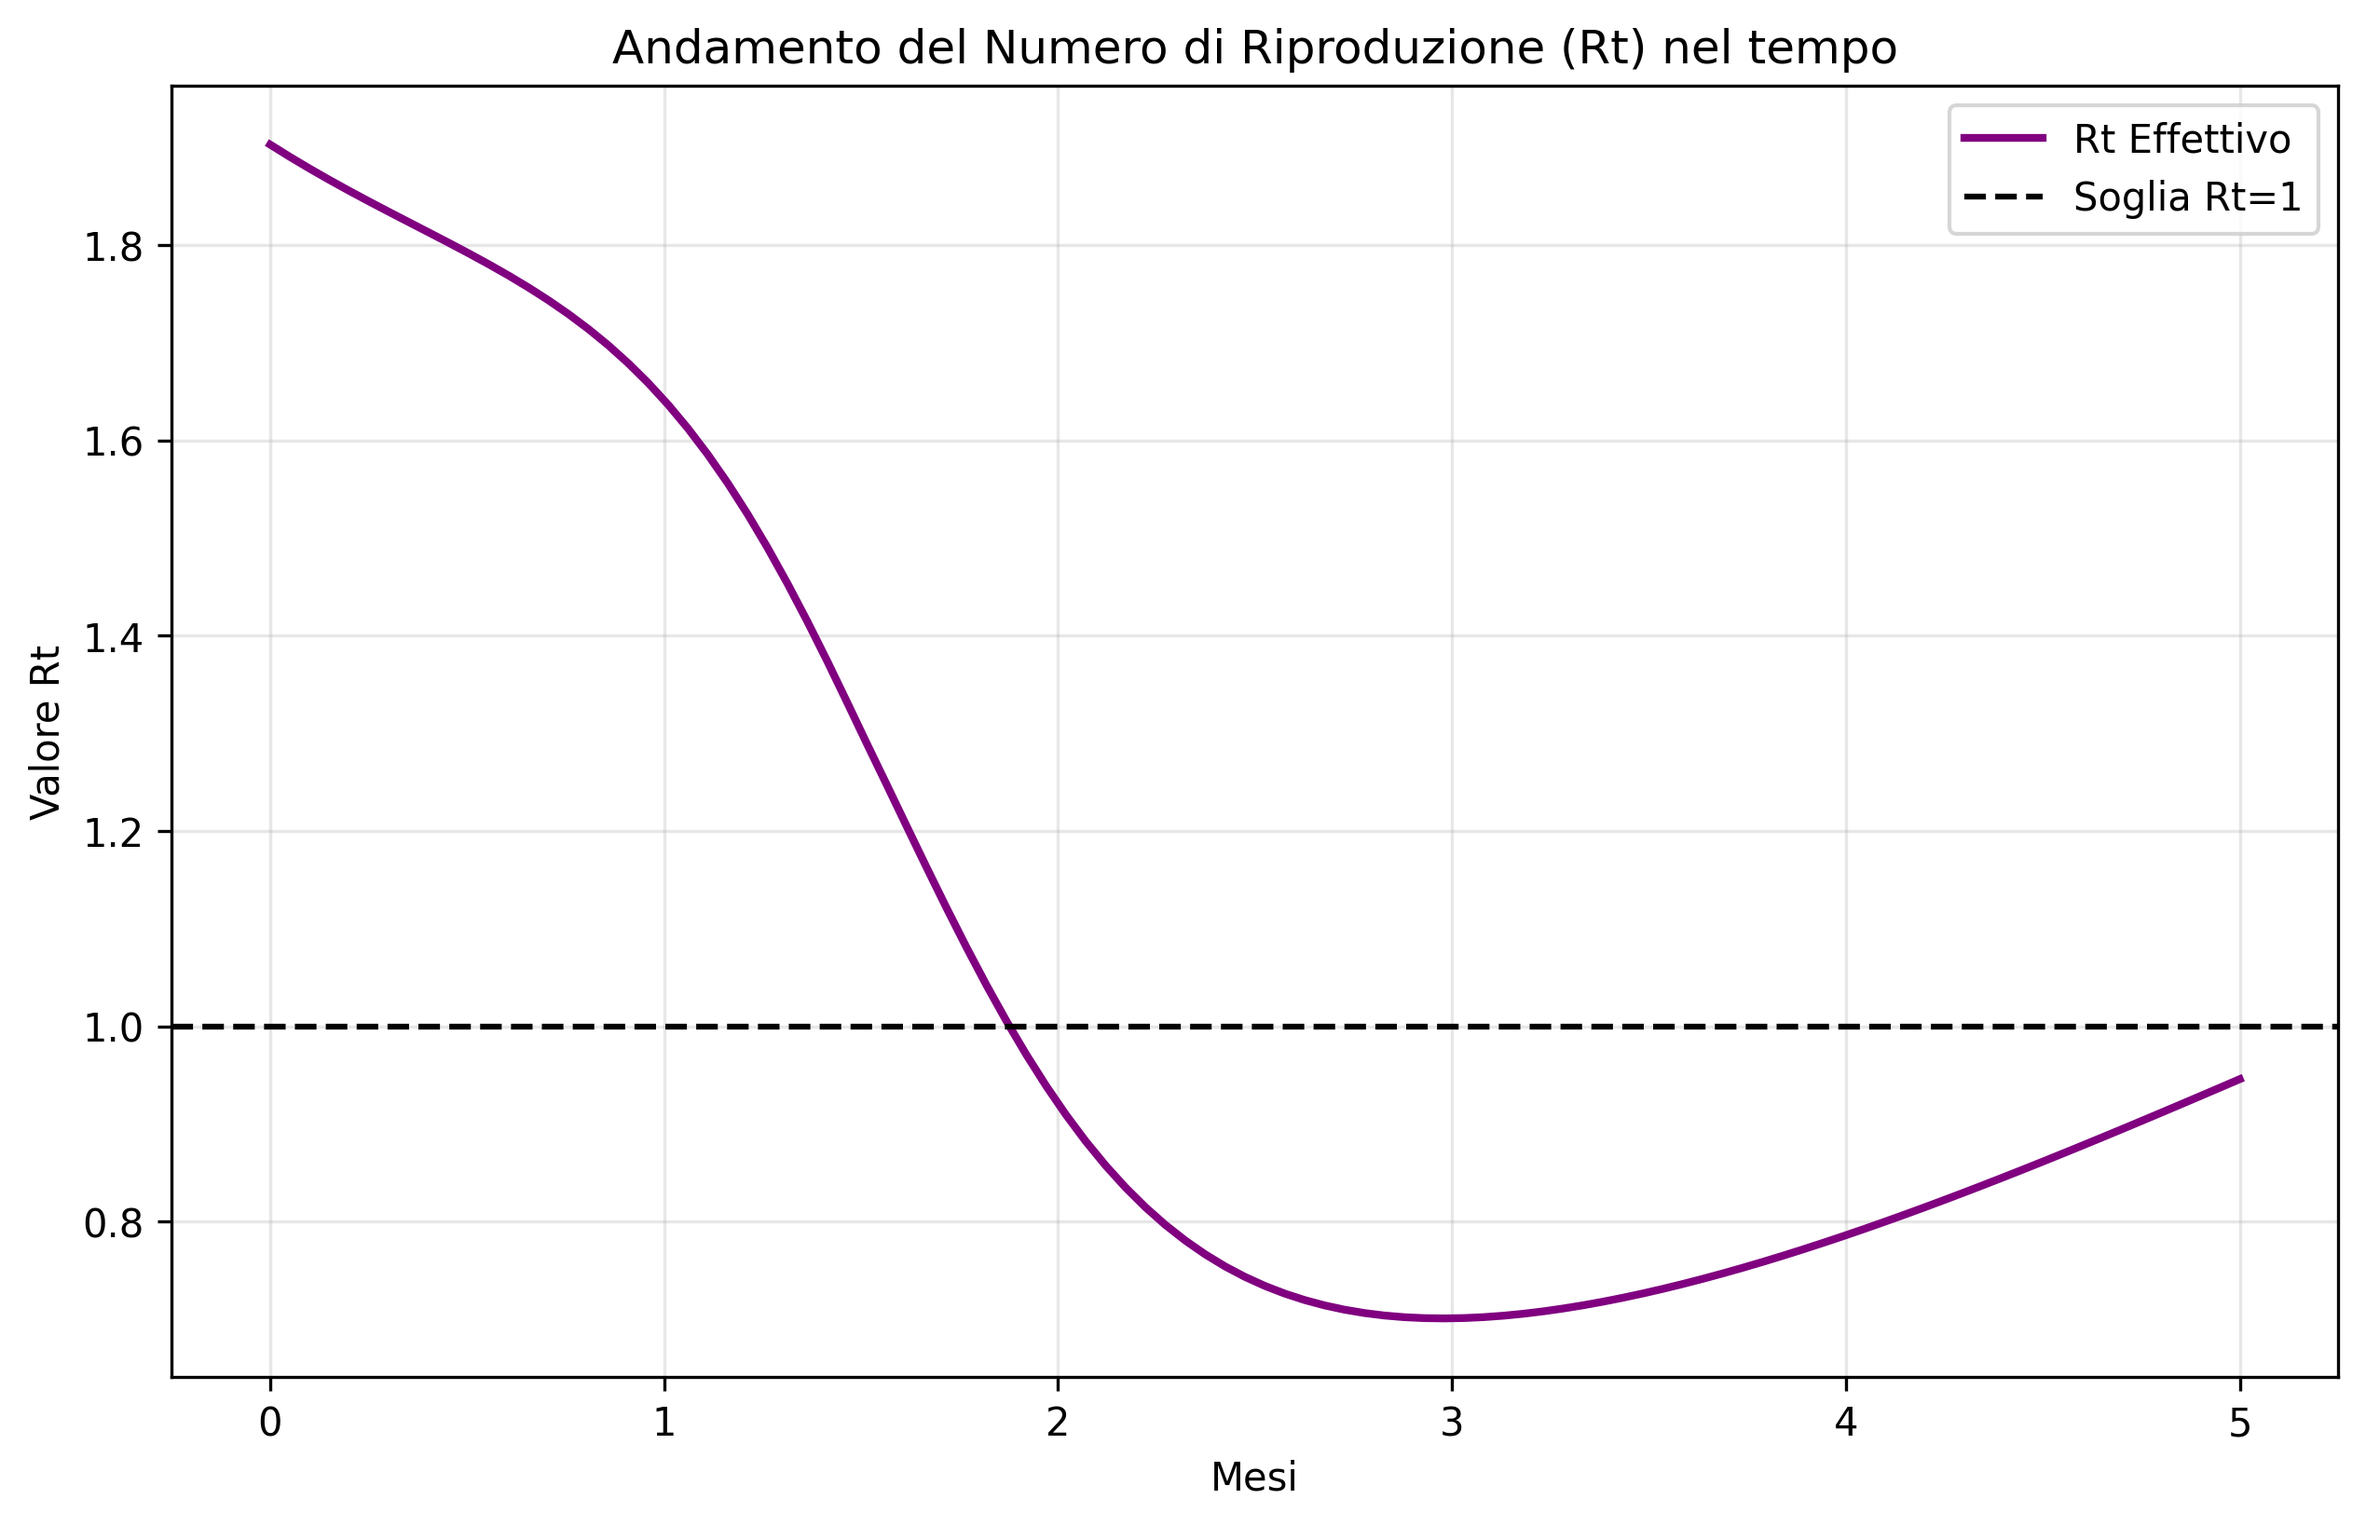
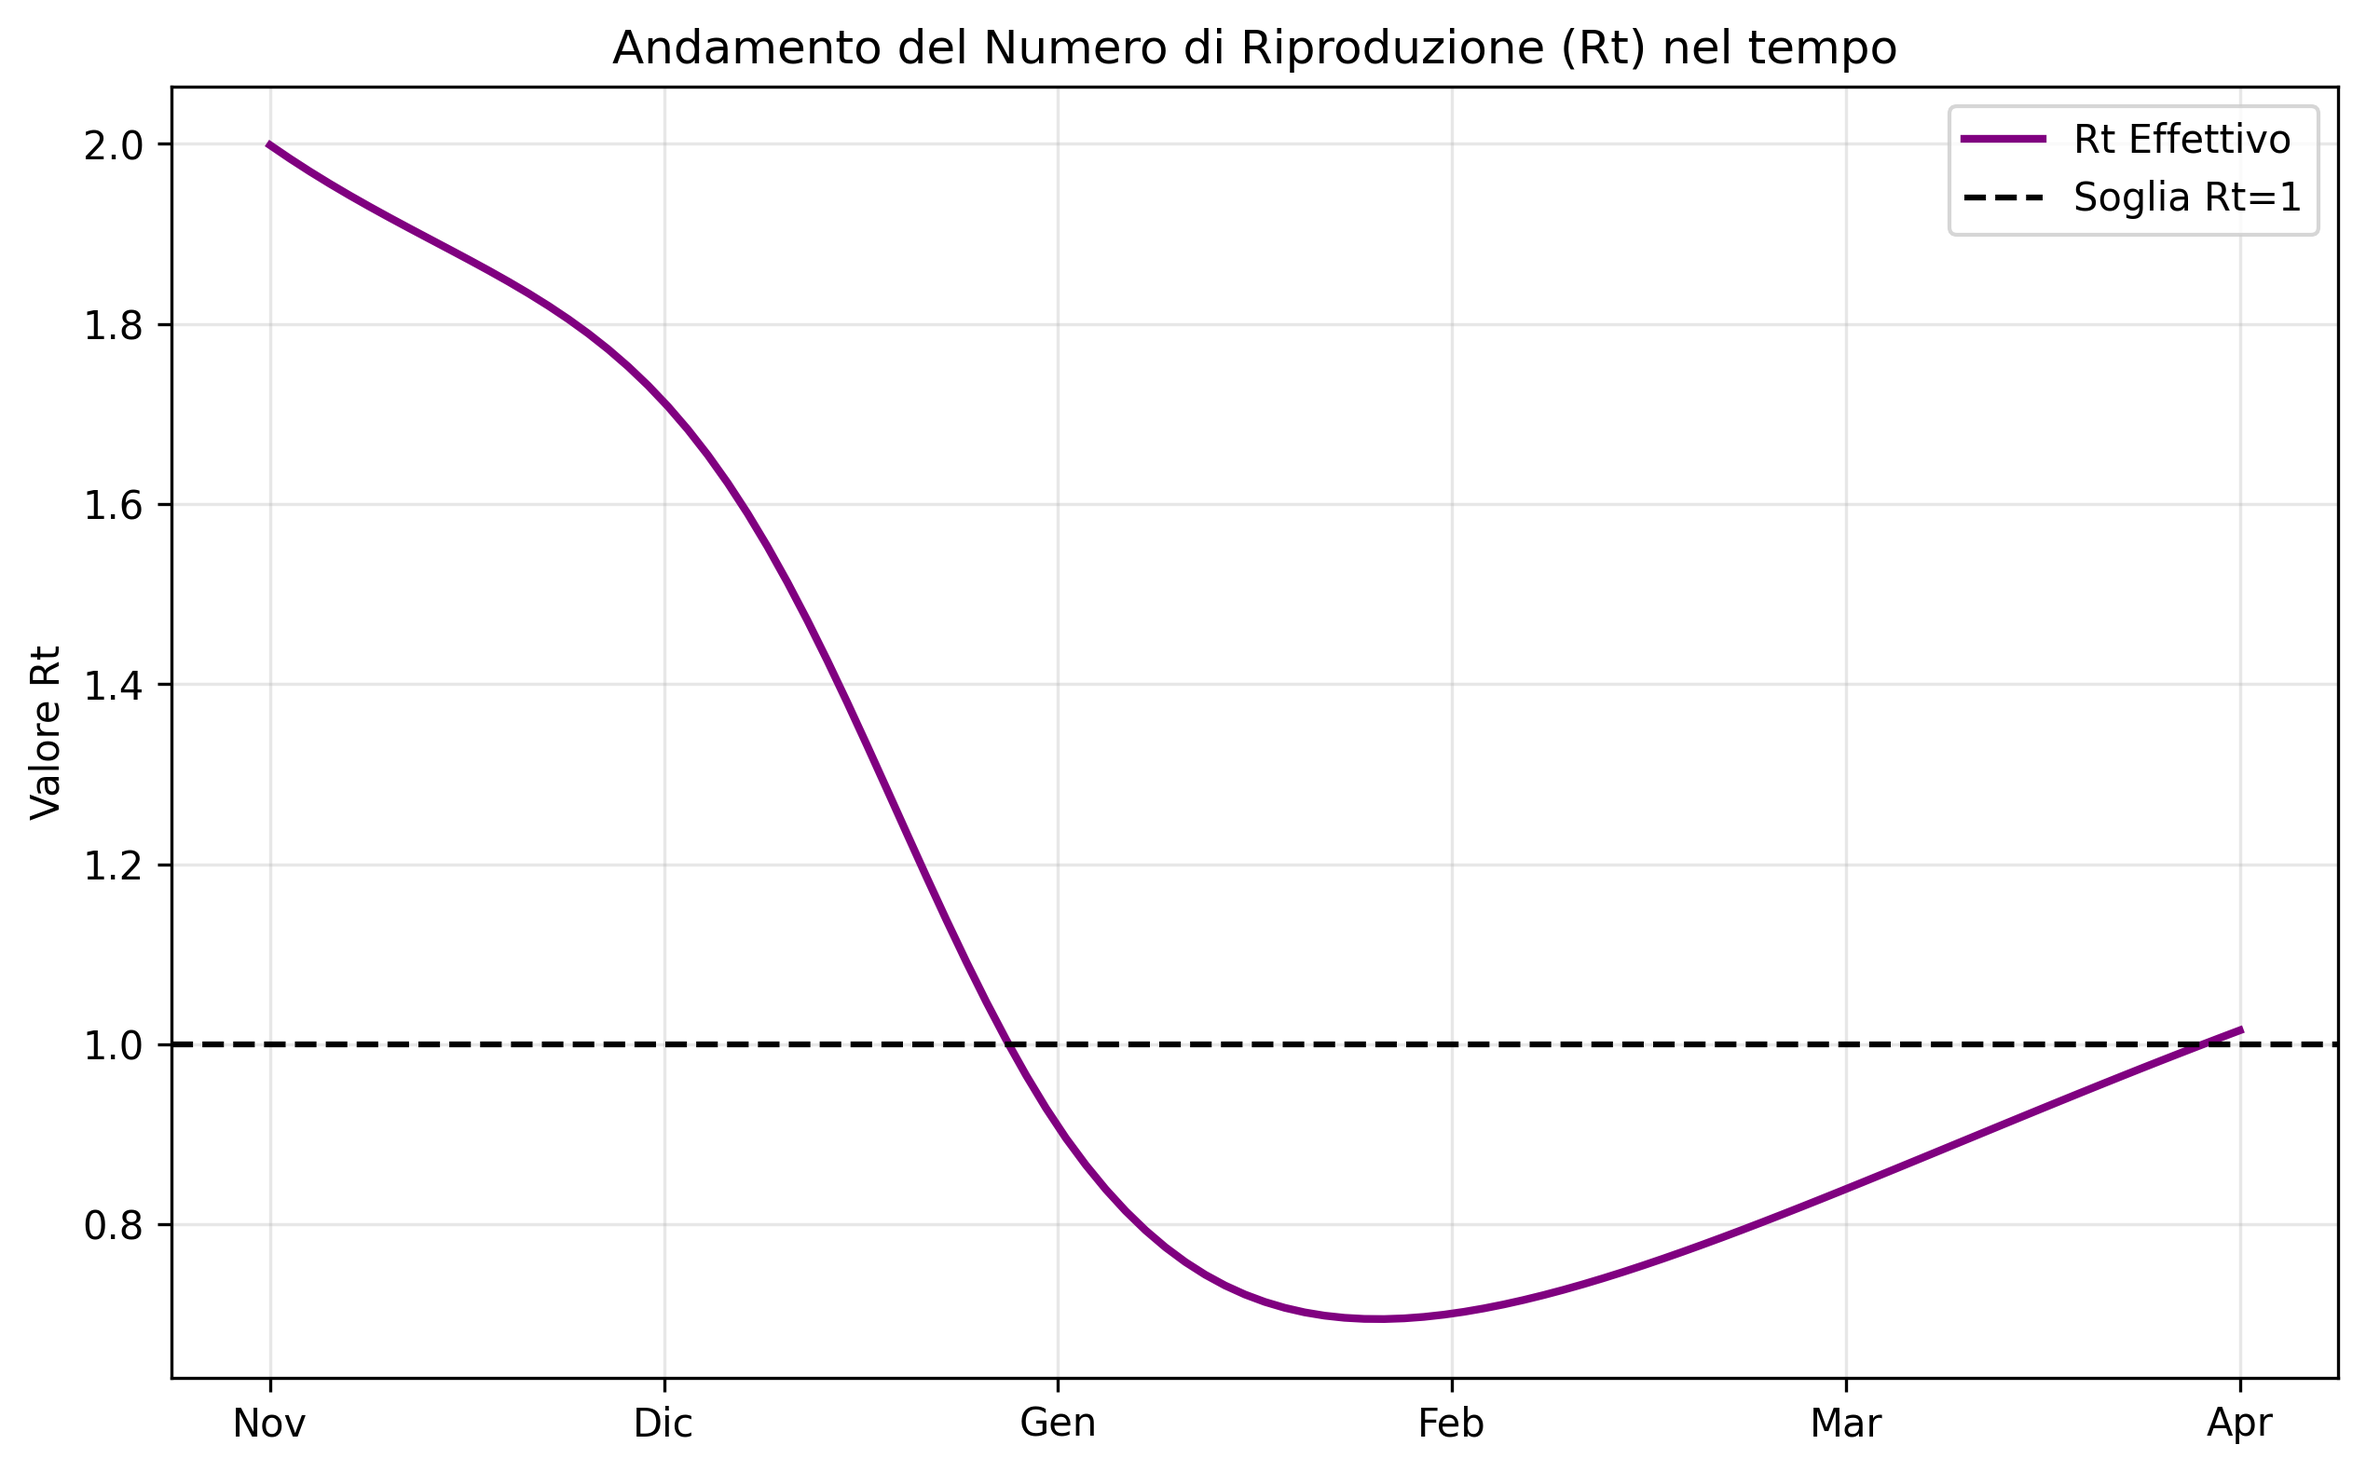
aggiunta parte covid
aggiunta parte vaccinazione post covid e grafico SIR, sistemata logica vaccinazioni

diff --git a/SIRnS.py b/SIRnS.py
@@ -9,10 +9,16 @@ df_vax = pd.read_csv('vaccini.csv', sep=';')
 
 # Parametri globali
 n_stages = 3
-gamma = 4.3
+gamma = 4
 r = 0.5
-beta = 9.5
+beta = 8
 I0 = 0.001
+
+s_min = 0.01
+s_max = 0.7
+
+t_vax = 2 #durata della campagna attiva vaccinale
+pop_ita = 60e6
 
 
 def clean_flu_data(df_flu_clean):
@@ -43,7 +49,7 @@ def get_flu_season(df, year_start):
     season = season.sort_values(['Year', 'Month'])
 
     # numero mese nella stagione
-    season['Num'] = np.arange(len(season)) + 1
+    season['Num'] = np.arange(len(season))
     return season
 
 
@@ -52,37 +58,50 @@ def sirnv_model(y, t, beta, gamma, r, vax_rate, n):
     I = y[1]
     R = y[2:]
 
-    # suscettibilità residua per gli stadi R
-    s = [0.1 * (i + 1) for i in range(n)]
+    #creo n valori distribuiti tra 0.01 e 0.7, in base al numero di stage
+    s = np.linspace(s_min, s_max, n)
 
-    if t <= 1.5:
+    infezioniR = 0
+    #somma degli infetti che provengono da qualsiasi Ri
+    for i in range(n):
+        nuovi_infetti = s[i] * beta * R[i] * I
+        infezioniR = infezioniR + nuovi_infetti
+
+    if t <= t_vax:
         v = vax_rate * np.exp(-t)
     else:
         v = 0
 
     dsdt = -beta * S * I - v * S + r * R[n - 1]
 
-    # infezioni da S e da tutti gli stati R
-    infections_from_R = sum(s[i] * beta * R[i] * I for i in range(n))
-    didt = beta * S * I + infections_from_R - gamma * I
+    didt = beta * S * I + infezioniR - gamma * I
 
-    # Equazioni R
-    drdt = [0] * n
+    drdt = np.zeros(n)
     # R1 riceve i guariti e i vaccinati
-    drdt[0] = gamma * I + v * S - s[0] * beta * R[0] * I - r * R[0]
+    drdt[0] = gamma * I + v * S - (s[0] * beta * R[0] * I) - (r * R[0])
     # Passaggio tra stadi R_i -> R_{i+1} (invecchiamento immunità)
-    for i in range(1, n - 1):
-        drdt[i] = r * R[i - 1] - s[i] * beta * R[i] * I - r * R[i]
-    # Ultimo stadio Rn
-    drdt[n - 1] = r * R[n - 2] - s[n - 1] * beta * R[n - 1] * I - r * R[n - 1]
+    for i in range(1, n):
+        drdt[i] = r * R[i - 1] - (s[i] * beta * R[i] * I) - r * R[i]
 
-    return [dsdt, didt] + drdt
+    ris = [dsdt, didt] + drdt.tolist()
+
+    return ris
 
 
-def run_simulation(beta, vax_rate, n_stages, t_grid, gamma, r, I0):
-    S0 = 1 - I0 - vax_rate
-    R0 = [vax_rate] + [0.0] * (n_stages - 1)
+def run_simulation(beta, vax_rate_target, n_stages, t_grid, gamma, r, I0):
+    vax_october = 0.15
+    initial_immune = vax_rate_target * vax_october
+
+    vax_rate_rim = vax_rate_target - initial_immune
+
+    R0 = [0.0] * n_stages
+    S0 = 1 - I0 - sum(R0)
+    R0[0] = initial_immune
     y0 = [S0, I0] + R0
+
+    # Affinché l'integrale della vaccinazione nel tempo sia pari al tasso target
+    integral_factor = 1 - np.exp(-t_vax)
+    vax_rate = vax_rate_rim / integral_factor
 
     sol = odeint(sirnv_model, y0, t_grid,
                  args=(beta, gamma, r, vax_rate, n_stages))
@@ -92,17 +111,23 @@ def run_simulation(beta, vax_rate, n_stages, t_grid, gamma, r, I0):
 def plot_results(t, sol, real_data, year, vax_rate, filename, title_suffix=""):
     plt.figure(figsize=(10, 6))
 
+    plt.plot(t, sol[:, 1], 'r-', linewidth=2, label='Modello SIRnS (Infetti)')
+
     # Scalatura dati reali sul picco della simulazione
     if not real_data.empty:
         # Calcolo fattore dinamico per allineare il picco visivamente
-        factor = sol[:, 1].max() / real_data['INF_ALL'].max()
-        real_scaled = real_data['INF_ALL'] * factor
-        plt.scatter(real_data['Num'] - 1, real_scaled, color='blue', label='Dati Reali (Scalati)')
+        peak_model = sol[:, 1].max()
+        peak = real_data['INF_ALL'] .max()
 
-    plt.plot(t, sol[:, 1], 'r-', linewidth=2, label='Modello SIRnV (Infetti)')
+        factor = peak_model / peak
+        real_scaled = real_data['INF_ALL'] * factor
+        plt.scatter(real_data['Num'], real_scaled, color='blue', label='Dati Reali (Scalati)')
+
+
 
     plt.title(f"Stagione {year}-{year + 1}: Modello vs Realtà (Vax: {vax_rate * 100:.1f}%) {title_suffix}")
-    plt.xlabel("Mesi (0=Nov, 1=Dic, ...)")
+    mesi_labels = ['Nov', 'Dic', 'Gen', 'Feb', 'Mar', 'Apr']
+    plt.xticks(ticks=[0, 1, 2, 3, 4, 5], labels=mesi_labels)
     plt.ylabel("Proporzione Infetti")
     plt.legend()
     plt.grid(True, alpha=0.3)
@@ -127,7 +152,8 @@ def plot_sensitivity_r(t, beta, gamma, vax_rate, n_stages, I0):
         plt.plot(t, sol[:, 1], label=labels[i], color=colors[i], linewidth=2)
 
     plt.title("Analisi di Sensitività: Effetto del decadimento dell'immunità (r)")
-    plt.xlabel("Mesi")
+    mesi_labels = ['Nov', 'Dic', 'Gen', 'Feb', 'Mar', 'Apr']
+    plt.xticks(ticks=[0, 1, 2, 3, 4, 5], labels=mesi_labels)
     plt.ylabel("Proporzione Infetti")
     plt.legend()
     plt.grid(True, alpha=0.3)
@@ -152,7 +178,8 @@ def plot_vaccine_scenarios(t, beta, gamma, r, n_stages, vax_real, I0):
         plt.plot(t, sol[:, 1], linestyle=styles[i], linewidth=2, label=f'{labels[i]} - Picco: {peak:.3f}')
 
     plt.title("Analisi Scenari: Impatto della Copertura Vaccinale")
-    plt.xlabel("Mesi")
+    mesi_labels = ['Nov', 'Dic', 'Gen', 'Feb', 'Mar', 'Apr']
+    plt.xticks(ticks=[0, 1, 2, 3, 4, 5], labels=mesi_labels)
     plt.ylabel("Proporzione Infetti")
     plt.legend()
     plt.grid(True, alpha=0.3)
@@ -165,8 +192,7 @@ def plot_rt(t, sol, beta, gamma, n_stages):
     S_t = sol[:, 0]
     R_t = sol[:, 2:]
 
-    # Pesi suscettibilità (gli stessi definiti nel modello)
-    s = [0.1 * (i + 1) for i in range(n_stages)]
+    s = np.linspace(s_min, s_max, n_stages)  # Da 0.01 a 0.7
 
     # Calcolo suscettibilità media della popolazione nel tempo
     # Somma pesata: S vale 1, R[i] vale s[i]
@@ -182,12 +208,87 @@ def plot_rt(t, sol, beta, gamma, n_stages):
     plt.axhline(1.0, color='black', linestyle='--', label='Soglia Rt=1')
 
     plt.title("Andamento del Numero di Riproduzione (Rt) nel tempo")
-    plt.xlabel("Mesi")
+    mesi_labels = ['Nov', 'Dic', 'Gen', 'Feb', 'Mar', 'Apr']
+    plt.xticks(ticks=[0, 1, 2, 3, 4, 5], labels=mesi_labels)
     plt.ylabel("Valore Rt")
     plt.legend()
     plt.grid(True, alpha=0.3)
     plt.savefig("analysis_rt.png", dpi=300, bbox_inches="tight")
     plt.close()
+
+
+def plot_sir_dynamics(t, sol, year):
+    # 1. Estrazione dei dati
+    S = sol[:, 0]
+    I = sol[:, 1]
+
+    # Sommiamo tutte le colonne da 2 in poi (tutti gli stadi R0, R1, R2...)
+    # axis=1 significa "somma per ogni riga (istante di tempo)"
+    R_total = np.sum(sol[:, 2:], axis=1)
+
+    # 2. Creazione del Grafico
+    plt.figure(figsize=(10, 6))
+
+    # Curva Blu: Suscettibili (Scende man mano che la gente si ammala o si vaccina)
+    plt.plot(t, S, color='blue', linewidth=2.5, label='Suscettibili (S)')
+
+    # Curva Verde: Immuni (Sale grazie a guarigioni e vaccini)
+    plt.plot(t, R_total, color='green', linewidth=2.5, label='Immuni/Guariti (R_tot)')
+
+    # Curva Rossa: Infetti (Fa il picco e poi scende)
+    plt.plot(t, I, color='red', linewidth=2.5, label='Infetti (I)')
+
+    # 3. Formattazione Estetica
+    plt.title(f"Dinamica Completa SIR - Stagione {year}")
+    plt.xlabel("Mesi")
+    plt.ylabel("Popolazione")
+
+    # Etichette Mesi (Nov, Dic...) come negli altri grafici
+    mesi_labels = ['Nov', 'Dic', 'Gen', 'Feb', 'Mar', 'Apr']
+    plt.xticks(ticks=[0, 1, 2, 3, 4, 5], labels=mesi_labels)
+
+    # Griglia e Legenda
+    plt.grid(True, alpha=0.3)
+    plt.legend(loc='center right', fontsize=11, framealpha=1, shadow=True)
+
+    # Salvataggio
+    plt.savefig("analysis_full_dynamics_SIR.png", dpi=300, bbox_inches="tight")
+    plt.close()
+    print("Grafico S-I-R salvato: analysis_full_dynamics_SIR.png")
+
+def plot_counterfactual_2021_rates(t, beta, gamma, r, n_stages, I0, season_data):
+    rate_2017 = get_vax_rate(df_vax, 2017)
+
+    other_year = 2021
+    rate_other = get_vax_rate(df_vax, other_year)
+
+    # Eseguiamo le due simulazioni
+    sol_real = run_simulation(beta, rate_2017, n_stages, t, gamma, r, I0)
+    sol_hypo = run_simulation(beta, rate_other, n_stages, t, gamma, r, I0)
+
+    # Calcolo riduzione picco
+    peak_real = sol_real[:, 1].max()
+    peak_hypo = sol_hypo[:, 1].max()
+    reduction = (peak_real - peak_hypo) / peak_real * 100
+
+    plt.figure(figsize=(10, 6))
+
+    plt.plot(t, sol_real[:, 1], 'r-', linewidth=2, label=f'Scenario 2017')
+    plt.plot(t, sol_hypo[:, 1], 'g--', linewidth=2, label=f'Scenario Post-COVID')
+
+
+    plt.title(f"Impatto campagna vaccinale Post-COVID sul 2017\nRiduzione del Picco: {reduction:.1f}%")
+
+    # Etichette mesi
+    mesi_labels = ['Nov', 'Dic', 'Gen', 'Feb', 'Mar', 'Apr']
+    plt.xticks(ticks=[0, 1, 2, 3, 4, 5], labels=mesi_labels)
+
+    plt.ylabel("Proporzione Infetti")
+    plt.legend()
+    plt.grid(True, alpha=0.3)
+    plt.savefig("analysis_counterfactual_covid_rates.png", dpi=300, bbox_inches="tight")
+    plt.close()
+    print(f"Analisi Controfattuale salvata. Riduzione picco stimata: {reduction:.1f}%")
 
 
 # --- ESECUZIONE DEL CODICE ---
@@ -200,6 +301,8 @@ print("Inizio Analisi...")
 # 1. Recupero dati Stagione 2017-2018 (Il nostro Caso Studio)
 season_17 = get_flu_season(df_clean, 2017)
 vax_17 = get_vax_rate(df_vax, 2017)
+
+print(season_17)
 
 # 2. Simulazione Principale (Calibrazione)
 print(f"Simulazione Stagione 2017 (Vax Rate: {vax_17:.3f})...")
@@ -215,5 +318,9 @@ plot_vaccine_scenarios(t, beta, gamma, r, n_stages, vax_17, I0)
 
 print("Calcolo e Grafico Rt...")
 plot_rt(t, sol_17, beta, gamma, n_stages)
+
+plot_sir_dynamics(t, sol_17, 2017)
+
+plot_counterfactual_2021_rates(t, beta, gamma, r, n_stages, I0, season_17)
 
 print("Tutto completato. Grafici salvati.")
